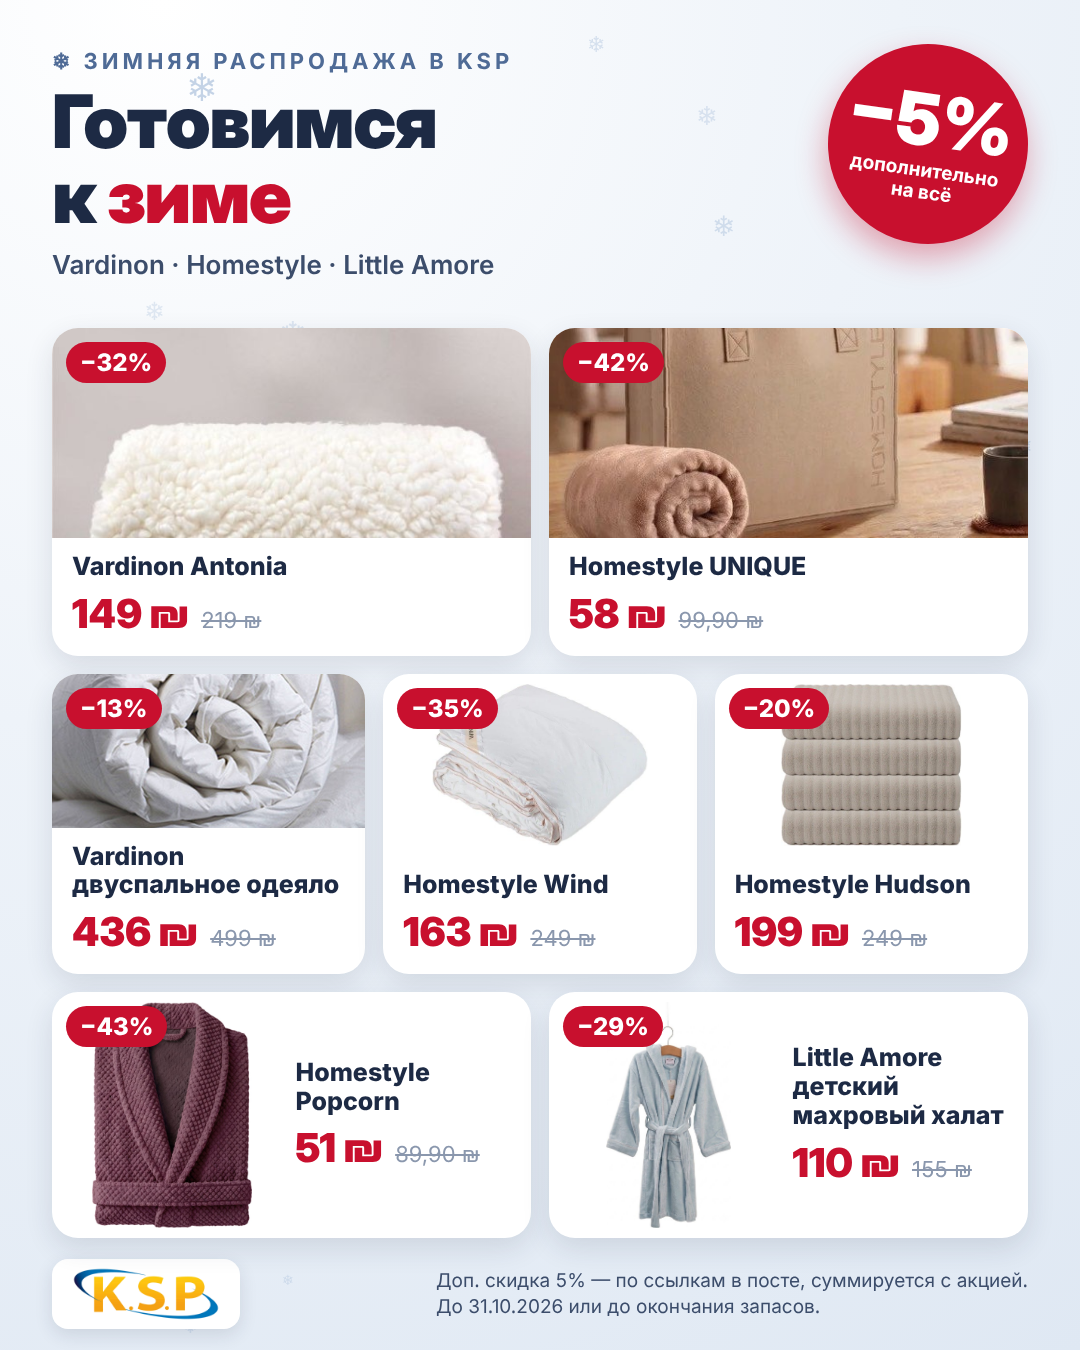
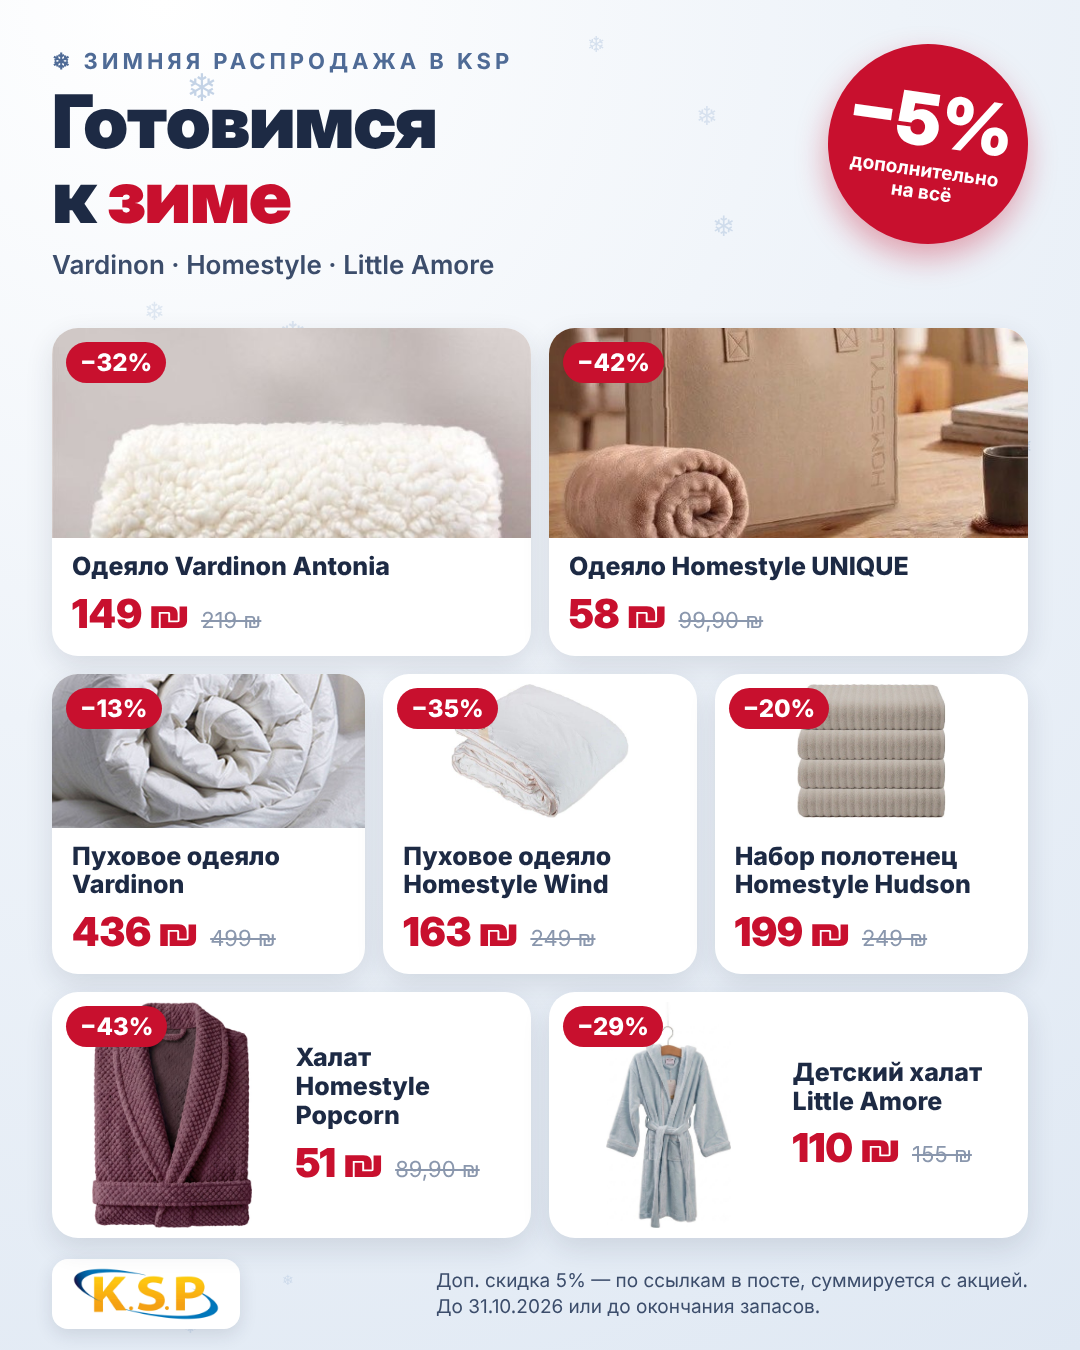
Add product type to names in promo image
Claude-Session: https://claude.ai/code/session_015RWzb5ejVMDSG7K16Gg5hT

diff --git a/ksp-winter-promo/render.js b/ksp-winter-promo/render.js
@@ -8,13 +8,13 @@ const dir = __dirname;
 const img = (f) => 'file://' + path.join(dir, 'src', f);
 
 const P = {
-  antonia: { name: 'Vardinon Antonia', size: '150×200 см', note: 'Текстура под овчину, подкладка из шерпы', img: 'antonia-blanket.jpg', fit: 'cover', now: '149', was: '219' },
-  unique: { name: 'Homestyle UNIQUE', size: '150×200 см', note: '100% микрофланель + сумка из фетра в подарок', img: 'unique-blanket.jpg', fit: 'cover', pos: '50% 60%', now: '58', was: '99,90' },
-  vardinon: { name: 'Vardinon двуспальное одеяло', size: '200×220 см', note: '88% гусиное перо, 12% пух, хлопок перкаль', img: 'vardinon-down.jpg', fit: 'cover', pos: '50% 40%', now: '436', was: '499' },
-  wind: { name: 'Homestyle Wind', size: '150×200 см', note: 'Перо и пух в дышащем чехле из перкаля', img: 'wind-down.jpg', fit: 'contain', now: '163', was: '249' },
-  hudson: { name: 'Homestyle Hudson', size: '4 полотенца 70×130 см', note: '100% хлопок, отлично впитывают', img: 'hudson-towels.jpg', fit: 'contain', now: '199', was: '249' },
-  popcorn: { name: 'Homestyle Popcorn', size: 'Халат из микрофланели', note: 'Тёплый, в разных цветах', img: 'popcorn-robe.jpg', fit: 'contain', now: '51', was: '89,90' },
-  amore: { name: 'Little Amore детский махровый халат', size: 'Детский махровый халат', note: 'В разных цветах', img: 'little-amore-robe.jpg', fit: 'contain', now: '110', was: '155' },
+  antonia: { name: 'Одеяло Vardinon Antonia', size: '150×200 см', note: 'Текстура под овчину, подкладка из шерпы', img: 'antonia-blanket.jpg', fit: 'cover', now: '149', was: '219' },
+  unique: { name: 'Одеяло Homestyle UNIQUE', size: '150×200 см', note: '100% микрофланель + сумка из фетра в подарок', img: 'unique-blanket.jpg', fit: 'cover', pos: '50% 60%', now: '58', was: '99,90' },
+  vardinon: { name: 'Пуховое одеяло Vardinon', size: '200×220 см', note: '88% гусиное перо, 12% пух, хлопок перкаль', img: 'vardinon-down.jpg', fit: 'cover', pos: '50% 40%', now: '436', was: '499' },
+  wind: { name: 'Пуховое одеяло Homestyle Wind', size: '150×200 см', note: 'Перо и пух в дышащем чехле из перкаля', img: 'wind-down.jpg', fit: 'contain', now: '163', was: '249' },
+  hudson: { name: 'Набор полотенец Homestyle Hudson', size: '4 полотенца 70×130 см', note: '100% хлопок, отлично впитывают', img: 'hudson-towels.jpg', fit: 'contain', now: '199', was: '249' },
+  popcorn: { name: 'Халат Homestyle Popcorn', size: 'Халат из микрофланели', note: 'Тёплый, в разных цветах', img: 'popcorn-robe.jpg', fit: 'contain', now: '51', was: '89,90' },
+  amore: { name: 'Детский халат Little Amore', size: 'Детский махровый халат', note: 'В разных цветах', img: 'little-amore-robe.jpg', fit: 'contain', now: '110', was: '155' },
 };
 const num = (s) => parseFloat(s.replace(',', '.'));
 const pct = (p) => Math.round((1 - num(p.now) / num(p.was)) * 100);
